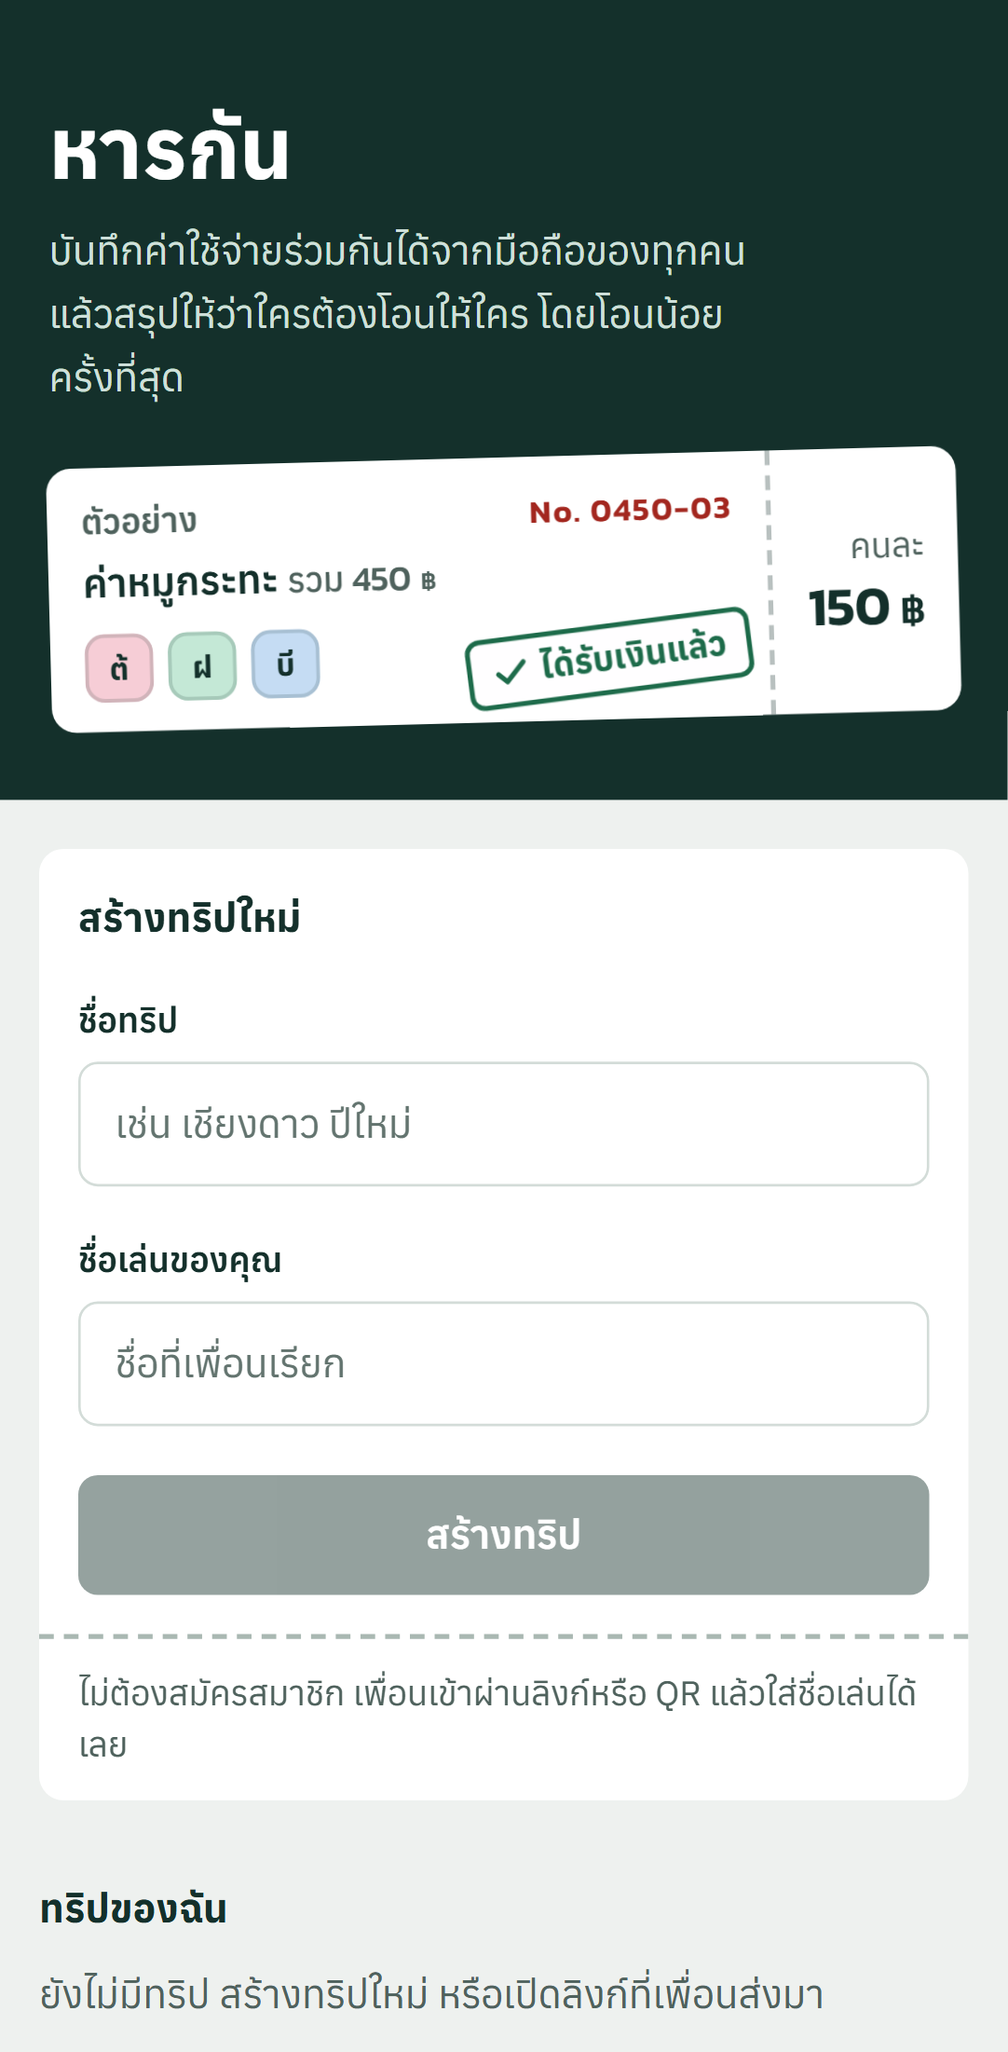
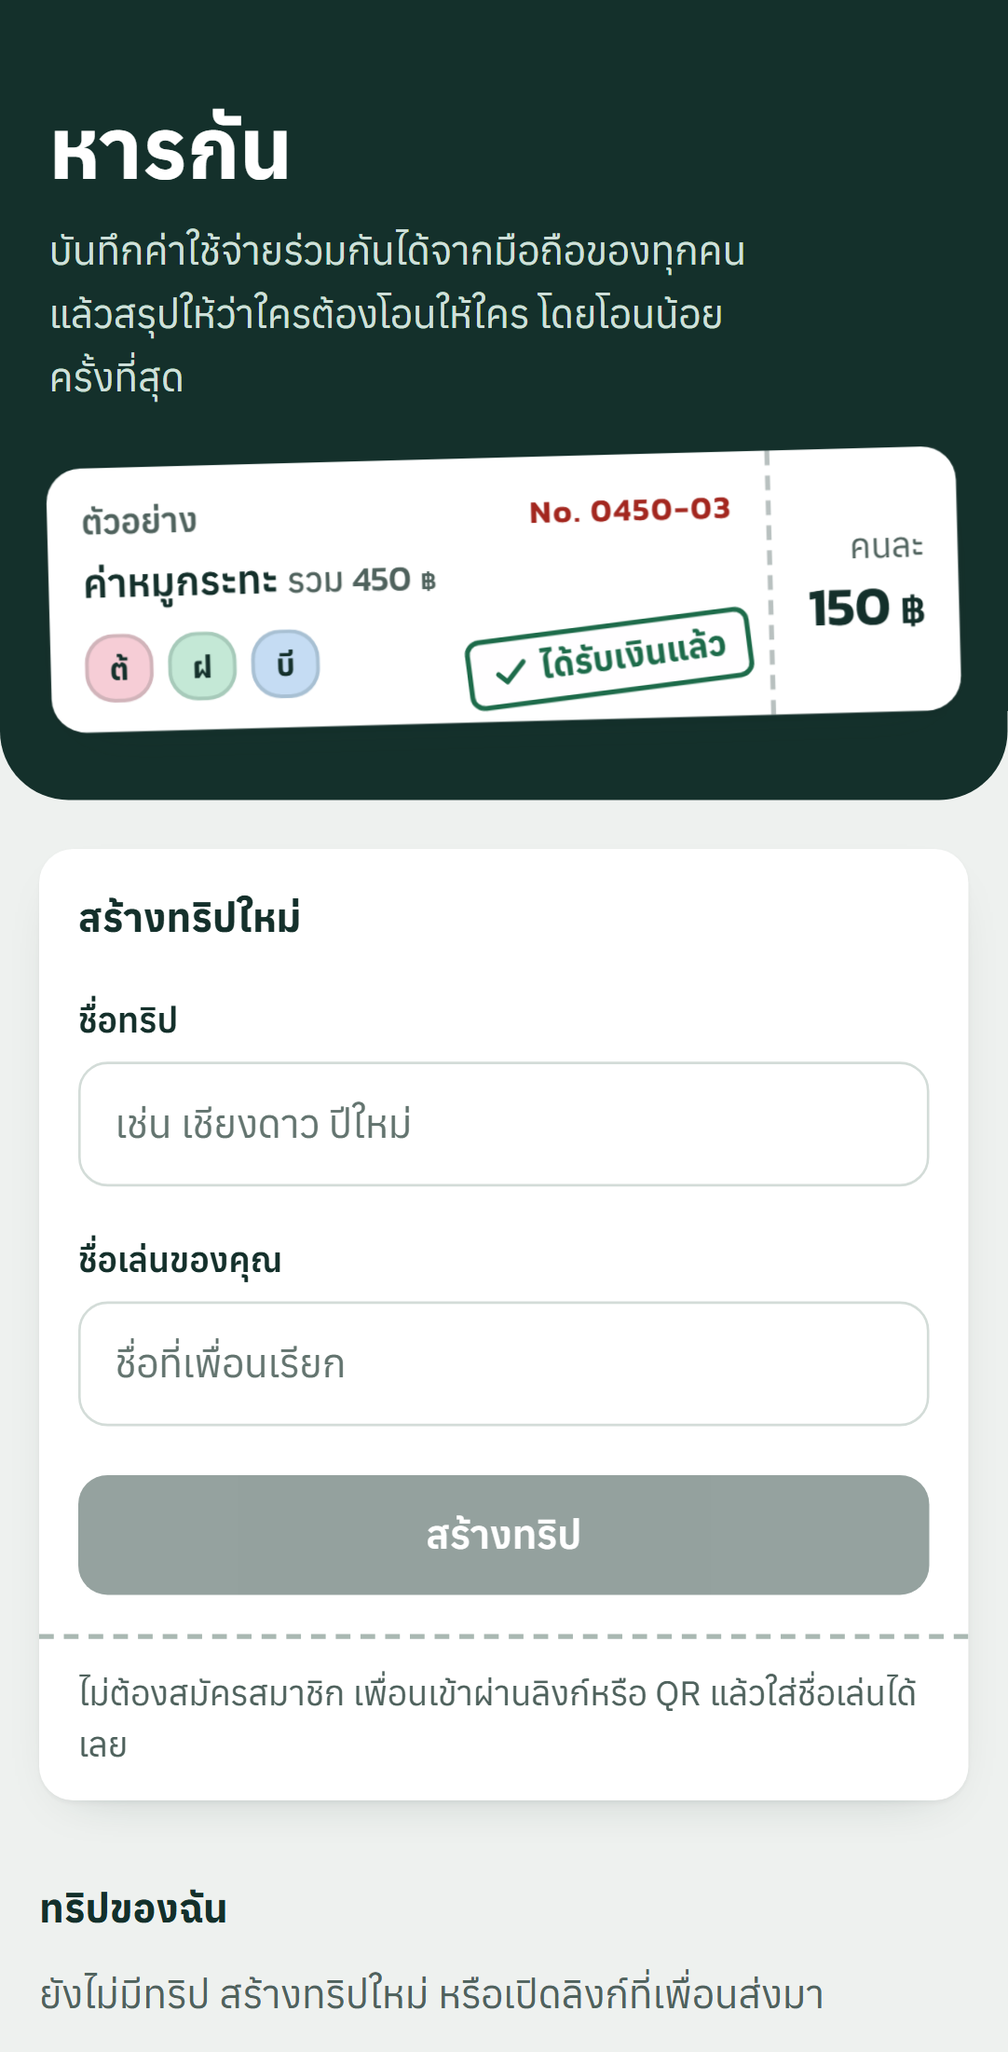
Soften the coupon book and add a settle strip
- Settle strip: dashed track, solid ink fill, on the settle tab and cached trip coupons
- Settlement now reports settled / toSettle (progress() with unit tests)
- Softer corners (coupon 14px, controls 12px), paper contact shadow, curved page bands
- No duplicate "everyone settled" box when the strip already says it

diff --git a/src/app/page.tsx b/src/app/page.tsx
@@ -5,7 +5,8 @@ import Link from "next/link";
 import { useRouter } from "next/navigation";
 import { useEffect, useState } from "react";
 import { tripSerial } from "@/components/trip/expenses-tab";
-import { Baht, MemberTile } from "@/components/ui";
+import { Baht, MemberTile, SettleStrip } from "@/components/ui";
+import { settlement } from "@/lib/trip/derive";
 import { ensureUser, supabase } from "@/lib/supabase/client";
 import { allSnapshots, forgetAll } from "@/lib/trip/idb";
 
@@ -23,13 +24,22 @@ export default function Home() {
   const [busy, setBusy] = useState(false);
   const [error, setError] = useState<string | null>(null);
   const [confirmWipe, setConfirmWipe] = useState(false);
+  // Trips opened on this device carry their data, so their coupon can show how settled they are.
+  const [settled, setSettled] = useState<Map<string, { settled: number; toSettle: number }>>(new Map());
 
   useEffect(() => {
     let cancelled = false;
     (async () => {
       // Trips cached on this device show first and are all there is offline.
-      const cached = (await allSnapshots().catch(() => [])).map((s) => s.trip);
-      if (!cancelled) setTrips(sortTrips(cached));
+      const snaps = await allSnapshots().catch(() => []);
+      const cached = snaps.map((s) => s.trip);
+      if (!cancelled) {
+        setTrips(sortTrips(cached));
+        setSettled(new Map(snaps.map((s) => {
+          const r = settlement(s, null);
+          return [s.trip.id, { settled: r.settled, toSettle: r.toSettle }];
+        })));
+      }
       const user = await ensureUser();
       if (!user) return;
       const { data } = await supabase().from("trips").select("id,name,created_at");
@@ -76,7 +86,7 @@ export default function Home() {
 
   return (
     <div className="mx-auto min-h-dvh max-w-lg lg:grid lg:max-w-none lg:grid-cols-2">
-      <header className="bg-ink px-5 pb-8 pt-[max(2.5rem,env(safe-area-inset-top))] text-white lg:sticky lg:top-0 lg:flex lg:h-dvh lg:flex-col lg:items-end lg:justify-center lg:px-16 lg:py-16">
+      <header className="bg-ink px-5 pb-8 pt-[max(2.5rem,env(safe-area-inset-top))] text-white rounded-b-[28px] lg:rounded-none lg:sticky lg:top-0 lg:flex lg:h-dvh lg:flex-col lg:items-end lg:justify-center lg:px-16 lg:py-16">
         <div className="lg:w-full lg:max-w-md">
           <h1 className="text-display font-bold">หารกัน</h1>
           <p className="mt-2 max-w-[30ch] text-body leading-relaxed text-on-ink-muted">
@@ -148,12 +158,17 @@ export default function Home() {
             <ul className="space-y-2">
               {trips.map((t) => (
                 <li key={t.id}>
-                  <Link href={`/t/${t.id}`} className="coupon coupon-press flex min-h-16 items-stretch hover:ring-1 hover:ring-ink/25" title={t.name}>
+                  <Link href={`/t/${t.id}`} data-testid="trip-link" className="coupon coupon-press flex min-h-16 items-stretch hover:ring-1 hover:ring-ink/25" title={t.name}>
                     <span className="min-w-0 flex-1 px-4 py-3.5">
                       <span className="line-clamp-2 text-body font-semibold leading-snug [overflow-wrap:anywhere]">{t.name}</span>
                       <span className="text-meta text-muted">
                         สร้างเมื่อ {new Date(t.created_at).toLocaleDateString("th-TH", { day: "numeric", month: "short", year: "numeric" })}
                       </span>
+                      {(settled.get(t.id)?.toSettle ?? 0) > 0 && (
+                        <span className="mt-2 block">
+                          <SettleStrip settled={settled.get(t.id)!.settled} total={settled.get(t.id)!.toSettle} compact />
+                        </span>
+                      )}
                     </span>
                     <span className="perf-y flex items-center gap-2 px-3.5">
                       <span className="serial">{tripSerial(t.id)}</span>

diff --git a/src/components/trip/settle-tab.tsx b/src/components/trip/settle-tab.tsx
@@ -8,7 +8,7 @@ import type { PlannedTransfer, Settlement } from "@/lib/trip/derive";
 import type { Pending } from "@/lib/trip/outbox";
 import type { TripState, TripStore } from "@/lib/trip/store";
 import type { Member, Payment } from "@/lib/trip/types";
-import { Baht, Empty, MemberTile, PendingMark, memberTint } from "../ui";
+import { Baht, Empty, MemberTile, PendingMark, SettleStrip, memberTint } from "../ui";
 import { couponNo, tripSerial } from "./expenses-tab";
 import { QrSheet } from "./qr-sheet";
 import { SlipSheet } from "./slip-sheet";
@@ -93,15 +93,21 @@ export function SettleTab({ state, store, settlement }: { state: TripState; stor
           ใครโอนให้ใคร
         </h2>
         {transfers.length > 0 && (
-          <p className="mb-3 mt-0.5 text-meta text-muted">จัดให้โอนน้อยครั้งที่สุดแล้ว รวม {settlement.transfers.length} ครั้ง</p>
+          <p className="mt-0.5 text-meta text-muted">จัดให้โอนน้อยครั้งที่สุดแล้ว รวม {settlement.transfers.length} ครั้ง</p>
         )}
+        {settlement.toSettle > 0 && (
+          <div className="coupon mb-3 mt-2.5 px-4 py-3" data-testid="settle-progress">
+            <SettleStrip settled={settlement.settled} total={settlement.toSettle} label="ทั้งทริปโอนแล้ว" />
+          </div>
+        )}
+        {settlement.toSettle === 0 && <div className="mb-3" />}
         {transfers.length === 0 ? (
           settlement.transfers.length > 0 ? (
             <Empty title="ไม่มียอดอื่นที่ค้างอยู่">รายการที่เหลือรอคุณยืนยันด้านบน</Empty>
           ) : (
             view.members.length < 2 ? (
               <Empty title="ยังไม่มีเพื่อนในทริป">เชิญเพื่อนหรือเพิ่มชื่อเพื่อนในแท็บสมาชิก แล้วระบบจะคำนวณยอดให้</Empty>
-            ) : (
+            ) : settlement.toSettle > 0 ? null : (
               <Empty title={settlement.total ? "ทุกคนโอนกันครบแล้ว" : "ยังไม่มียอดที่ต้องโอน"}>
                 {settlement.total ? "ไม่มีใครค้างโอนในทริปนี้" : "เมื่อมีรายจ่าย ระบบจะคำนวณให้ว่าใครต้องโอนให้ใคร"}
               </Empty>

diff --git a/src/components/ui.tsx b/src/components/ui.tsx
@@ -1,6 +1,6 @@
 "use client";
 
-import { X } from "lucide-react";
+import { Check, X } from "lucide-react";
 import { useEffect, useId, useRef, type ReactNode } from "react";
 import { formatBaht } from "@/lib/core/money";
 
@@ -111,6 +111,38 @@ export function PendingMark({ label = "รอส่ง" }: { label?: string }) {
     <span className="chip border border-dashed border-wait bg-wait-soft text-wait" title="ยังไม่ถึงเซิร์ฟเวอร์">
       {label}
     </span>
+  );
+}
+
+/**
+ * How much of the trip is settled, drawn in the coupon's own line language:
+ * the dashed track is money not settled yet, the solid ink fill is settled.
+ */
+export function SettleStrip({ settled, total, label = "โอนแล้ว", compact = false }: { settled: number; total: number; label?: string; compact?: boolean }) {
+  const pct = total ? Math.min(100, Math.round((settled / total) * 100)) : 0;
+  const done = total > 0 && settled >= total;
+  return (
+    <div>
+      <p className="flex items-baseline justify-between gap-3 text-meta">
+        <span className={`inline-flex min-w-0 items-center gap-1 font-semibold ${done ? "text-ok" : "text-muted"}`}>
+          {done && <Check className="size-4 shrink-0" aria-hidden />}
+          {done ? (compact ? "โอนครบแล้ว" : "ทุกคนโอนกันครบแล้ว") : label}
+        </span>
+        <span className={`num shrink-0 whitespace-nowrap text-muted ${done && compact ? "hidden" : ""}`}>
+          <span className="font-semibold text-ink">{formatBaht(settled)}</span> / {formatBaht(total)} ฿
+        </span>
+      </p>
+      <div
+        className="relative mt-1.5 h-2.5 rounded-[3px] border-2 border-dashed border-perf"
+        role="progressbar"
+        aria-label={label}
+        aria-valuemin={0}
+        aria-valuemax={100}
+        aria-valuenow={pct}
+      >
+        <span className="absolute -inset-y-0.5 -left-0.5 rounded-[3px] bg-ink transition-[width] duration-500 ease-out" style={{ width: `calc(${pct}% + 4px)`, maxWidth: "calc(100% + 4px)", display: pct ? undefined : "none" }} />
+      </div>
+    </div>
   );
 }
 

diff --git a/src/app/globals.css b/src/app/globals.css
@@ -45,7 +45,8 @@
   --text-display: 34px;
   --text-display--line-height: 1.2; /* room for Thai marks above and below */
 
-  --radius-coupon: 10px;
+  --radius-coupon: 14px;
+  --radius-lg: 12px; /* controls, notices, tiles */
   --ease-out-expo: cubic-bezier(0.16, 1, 0.3, 1);
 }
 
@@ -116,8 +117,12 @@ a {
     @apply inline-flex min-h-12 items-center justify-center gap-2 rounded-lg border border-owe/40 bg-paper px-4 py-2.5 text-body font-semibold text-owe transition-[background-color,border-color,transform] duration-150 ease-out hover:border-owe active:bg-owe-soft enabled:active:scale-[0.98];
   }
   /* A coupon: paper with a punched perforation line. */
+  /* Paper lying on the table: a faint contact shadow, never a lift. */
   .coupon {
     @apply relative overflow-hidden rounded-[var(--radius-coupon)] bg-paper;
+    box-shadow:
+      0 1px 2px rgb(20 48 43 / 0.05),
+      0 8px 22px -14px rgb(20 48 43 / 0.28);
   }
   /* Whole-coupon press feedback; smaller than buttons because coupons are wide. */
   .coupon-press {
@@ -157,6 +162,7 @@ a {
 .coupon.tearing {
   overflow: visible;
   background: transparent;
+  box-shadow: none;
 }
 .tearing .coupon-body,
 .tearing .coupon-actions {

diff --git a/src/lib/trip/derive.ts b/src/lib/trip/derive.ts
@@ -16,6 +16,9 @@ export interface Settlement {
   total: number;
   transfers: PlannedTransfer[];
   awaitingMe: Payment[];
+  /** Money confirmed as received so far, and what that plus every planned transfer adds up to. */
+  settled: number;
+  toSettle: number;
 }
 
 export function settlement(view: TripView, meId: string | null): Settlement {
@@ -40,5 +43,16 @@ export function settlement(view: TripView, meId: string | null): Settlement {
     total: expenses.reduce((s, e) => s + e.amount, 0),
     transfers,
     awaitingMe: meId ? claims.filter((p) => p.to_member === meId) : [],
+    ...progress(view.payments, transfers),
   };
+}
+
+/**
+ * How far the trip is from settled: confirmed payments against confirmed plus
+ * still planned. Claimed but unconfirmed money still counts as outstanding.
+ */
+export function progress(payments: Payment[], transfers: { amount: number }[]) {
+  const settled = payments.filter((p) => p.status === "confirmed").reduce((s, p) => s + p.amount, 0);
+  const outstanding = transfers.reduce((s, t) => s + t.amount, 0);
+  return { settled, toSettle: settled + outstanding };
 }

diff --git a/src/app/join/[code]/page.tsx b/src/app/join/[code]/page.tsx
@@ -91,7 +91,7 @@ export default function JoinPage() {
 
   return (
     <div className="mx-auto min-h-dvh max-w-lg lg:grid lg:max-w-none lg:grid-cols-2">
-      <header className="bg-ink px-5 pb-7 pt-[max(2.5rem,env(safe-area-inset-top))] text-white lg:sticky lg:top-0 lg:flex lg:h-dvh lg:flex-col lg:items-end lg:justify-center lg:px-16 lg:py-16">
+      <header className="bg-ink px-5 pb-7 pt-[max(2.5rem,env(safe-area-inset-top))] text-white rounded-b-[28px] lg:rounded-none lg:sticky lg:top-0 lg:flex lg:h-dvh lg:flex-col lg:items-end lg:justify-center lg:px-16 lg:py-16">
         <div className="lg:w-full lg:max-w-md">
           <h1 className={`font-bold [overflow-wrap:anywhere] ${[...preview.name].length > 24 ? "text-title" : "text-display"}`}>{preview.name}</h1>
           <p className="mt-2 text-body text-on-ink-muted">คุณได้รับเชิญเข้าทริปนี้</p>

diff --git a/src/lib/trip/derive.test.ts b/src/lib/trip/derive.test.ts
@@ -1,0 +1,18 @@
+import { describe, expect, it } from "vitest";
+import { progress } from "./derive";
+import type { Payment } from "./types";
+
+const pay = (amount: number, status: Payment["status"]) => ({ amount, status }) as Payment;
+
+describe("progress", () => {
+  it("is empty with nothing to settle", () => {
+    expect(progress([], [])).toEqual({ settled: 0, toSettle: 0 });
+  });
+  it("counts only confirmed payments as settled", () => {
+    const r = progress([pay(1000, "confirmed"), pay(500, "claimed"), pay(300, "rejected"), pay(200, "cancelled")], [{ amount: 2000 }]);
+    expect(r).toEqual({ settled: 1000, toSettle: 3000 });
+  });
+  it("is complete when no transfers remain", () => {
+    expect(progress([pay(2500, "confirmed")], [])).toEqual({ settled: 2500, toSettle: 2500 });
+  });
+});

diff --git a/src/app/privacy/page.tsx b/src/app/privacy/page.tsx
@@ -46,7 +46,7 @@ const SECTIONS: { h: string; p: string[] }[] = [
 export default function PrivacyPage() {
   return (
     <div className="min-h-dvh">
-      <header className="bg-ink px-5 pb-7 pt-[max(2.5rem,env(safe-area-inset-top))] text-white">
+      <header className="rounded-b-[28px] bg-ink px-5 pb-7 pt-[max(2.5rem,env(safe-area-inset-top))] text-white">
         <div className="mx-auto max-w-lg lg:max-w-2xl">
           <Link href="/" className="-ml-2 inline-flex min-h-12 items-center px-2 text-body font-medium text-on-ink-muted underline">
             หารกัน

diff --git a/e2e/zz-review.spec.ts b/e2e/zz-review.spec.ts
@@ -70,4 +70,8 @@ test("review captures", async ({ browser }) => {
   await a.setViewportSize({ width: 1024, height: 768 });
   await a.getByRole("button", { name: /รายจ่าย/ }).click();
   await a.screenshot({ path: ".impeccable/review/desktop-1024.png" });
+  await a.setViewportSize({ width: 390, height: 844 });
+  await a.goto("/");
+  await expect(a.getByTestId("trip-link").first()).toBeVisible();
+  await a.screenshot({ path: ".impeccable/review/mobile-home-trips.png" });
 });

diff --git a/DESIGN.md b/DESIGN.md
@@ -56,8 +56,8 @@ typography:
     letterSpacing: "0.06em"
     fontFeature: "tnum"
 rounded:
-  coupon: "10px"
-  control: "8px"
+  coupon: "14px"
+  control: "12px"
   chip: "6px"
 spacing:
   stack: "8px"
@@ -158,7 +158,7 @@ The world rejects the fintech dashboard (white cards, a green accent, charts) an
 - Red only for serial numbers (and, through the owe tokens, error and destructive text).
 - Amounts and serials in Kanit with tabular figures; every other word in Anuphan.
 - Dashed perforations as both decoration and state.
-- Small coupon corners (10px); no pills.
+- Soft coupon corners (14px) and controls (12px); no pills.
 
 ## Colors
 
@@ -230,18 +230,20 @@ Spacing rhythm: 8px between coupons in a list, 10px between side-by-side stubs, 
 
 ## Elevation & Depth
 
-The system is flat. Depth comes from tone: white paper on a cool ground, the ink band above, and a dimmed ink backdrop (ink at 45%) behind sheets. Coupons have no shadow.
+Depth comes mostly from tone: white paper on a cool ground, the ink band above, and a dimmed ink backdrop (ink at 45%) behind sheets. Coupons rest on the table with a faint contact shadow (softness borrowed, as an idea only, from friendly Thai money apps; never their colours, clouds or names).
 
 ### Shadow Vocabulary
 - **Floating button lift** (`box-shadow: 0 6px 18px -6px rgb(20 48 43 / 0.55)`): only on the fixed add-expense button, which floats over scrolling content.
 - **Tile edge** (`box-shadow: inset 0 0 0 1.5px rgb(20 48 43 / 0.16)`): an inner hairline on member tiles so pale tints hold their edge on white.
 
 ### Named Rules
-**The Flat Paper Rule.** Coupons and cards lie flat. The only cast shadow belongs to the one control that floats over content.
+- **Paper contact** (`0 1px 2px rgb(20 48 43 / 0.05), 0 8px 22px -14px rgb(20 48 43 / 0.28)`): every coupon. It is removed while a coupon tears.
+
+**The Paper On The Table Rule.** Coupons rest; they never lift. No hover lift, no growing shadows. Only the add-expense button floats.
 
 ## Shapes
 
-Small, slightly softened rectangles, like cut coupon stock. Coupons, sheets, the empty state, the PromptPay panel and the add-expense button use the coupon corner (10px). Buttons, inputs, notices and member tiles use the control corner (8px). Chips, segmented options and the tab badge use the chip corner (6px). There are no pills; the only full circle is the 6px live dot.
+Small, slightly softened rectangles, like cut coupon stock. Coupons, sheets, the empty state, the PromptPay panel and the add-expense button use the coupon corner (14px). Buttons, inputs, notices and member tiles use the control corner (12px). The ink band on the home, join and privacy pages has a 28px curved bottom on phones. Chips, segmented options and the tab badge use the chip corner (6px). There are no pills; the only full circle is the 6px live dot.
 
 Perforations are 2px dashed lines in perforation grey (or tinted ink at 25 to 35% on coloured coupons). A vertical perforation separates a coupon's body from its amount stub; a horizontal one separates a coupon from its actions, and a sheet's title from its body.
 
@@ -252,7 +254,7 @@ Perforations are 2px dashed lines in perforation grey (or tinted ink at 25 to 35
 
 ### Buttons
 Firm and plain, ink on paper.
-- **Shape:** control corner (8px); the add-expense button uses the coupon corner (10px).
+- **Shape:** control corner (12px); the add-expense button uses the coupon corner (14px).
 - **Primary:** ink fill, white semibold body text, at least 48px tall, 12px by 20px padding. Hover and press go to ink press; disabled drops to 45% opacity.
 - **Secondary:** paper fill, ink text, 1px ink border at 25% (50% on hover), at least 48px tall; press fills with ground.
 - **Quiet:** no fill, ink text underlined at 30% (full on hover), at least 48px tall.
@@ -266,14 +268,14 @@ Firm and plain, ink on paper.
 - **State:** pending is wait text on wait-soft with a dashed wait border; "live" is ink on mint with an ok dot; offline and connecting are white on white at 12% over the ink band; sending is lemon text with a dashed lemon border.
 
 ### Cards / Containers (Coupons)
-- **Corner Style:** coupon corner (10px), content clipped.
+- **Corner Style:** coupon corner (14px), content clipped.
 - **Background:** paper; tinted with a member's tint when it is that member's money (your share, a transfer you need to pay). Unsettled history coupons sit at 60% paper.
-- **Shadow Strategy:** none (see Elevation & Depth).
+- **Shadow Strategy:** paper contact only (see Elevation & Depth).
 - **Border:** none; structure comes from perforations and row dividers in rule line.
 - **Internal Padding:** 12px by 14px; 16px for the balance coupon.
 
 ### Inputs / Fields
-- **Style:** paper fill, 1px rule-line border, control corner (8px), 12px by 14px padding, body text.
+- **Style:** paper fill, 1px rule-line border, control corner (12px), 12px by 14px padding, body text.
 - **Focus:** border turns ink with a 2px ink ring at 15%.
 - **Labels and hints:** label in meta semibold ink above; hint in meta muted below; errors in meta owe below.
 
@@ -299,6 +301,9 @@ A bottom sheet on phones and a centred dialog from 640px, on the ground colour w
 ### PromptPay Panel
 The QR on a white 8px-cornered tile inside a PromptPay navy panel with the coupon corner, the amount in display Kanit below it, and the payee with a masked PromptPay ID in pale blue.
 
+### Settle Strip
+How much of the trip is settled, in the Line Form language: a dashed perforation track (not settled) filled with solid ink (confirmed money), 10px tall with chip corners, never a pill. Label left in meta, "settled / total ฿" right in Kanit. At 100% the label turns ok with a check: "ทุกคนโอนกันครบแล้ว" (or "โอนครบแล้ว" in the compact form on home trip coupons, which hides the amounts). It sits under "ใครโอนให้ใคร" and on every trip coupon cached on the device. Claimed but unconfirmed money counts as not settled.
+
 ### Empty State
 A coupon-cornered box with a 2px dashed perforation border, a body semibold title and a muted body line capped at 32ch.
 
@@ -318,5 +323,5 @@ A coupon-cornered box with a 2px dashed perforation border, a body semibold titl
 - **Don't** colour balances green and red like a bank ledger.
 - **Don't** set readable text below 14px.
 - **Don't** use pill-shaped buttons, chips or badges.
-- **Don't** add drop shadows to coupons or cards.
+- **Don't** lift coupons on hover or give them anything heavier than the paper contact shadow.
 - **Don't** build a fintech dashboard of white cards, a green accent and charts.
